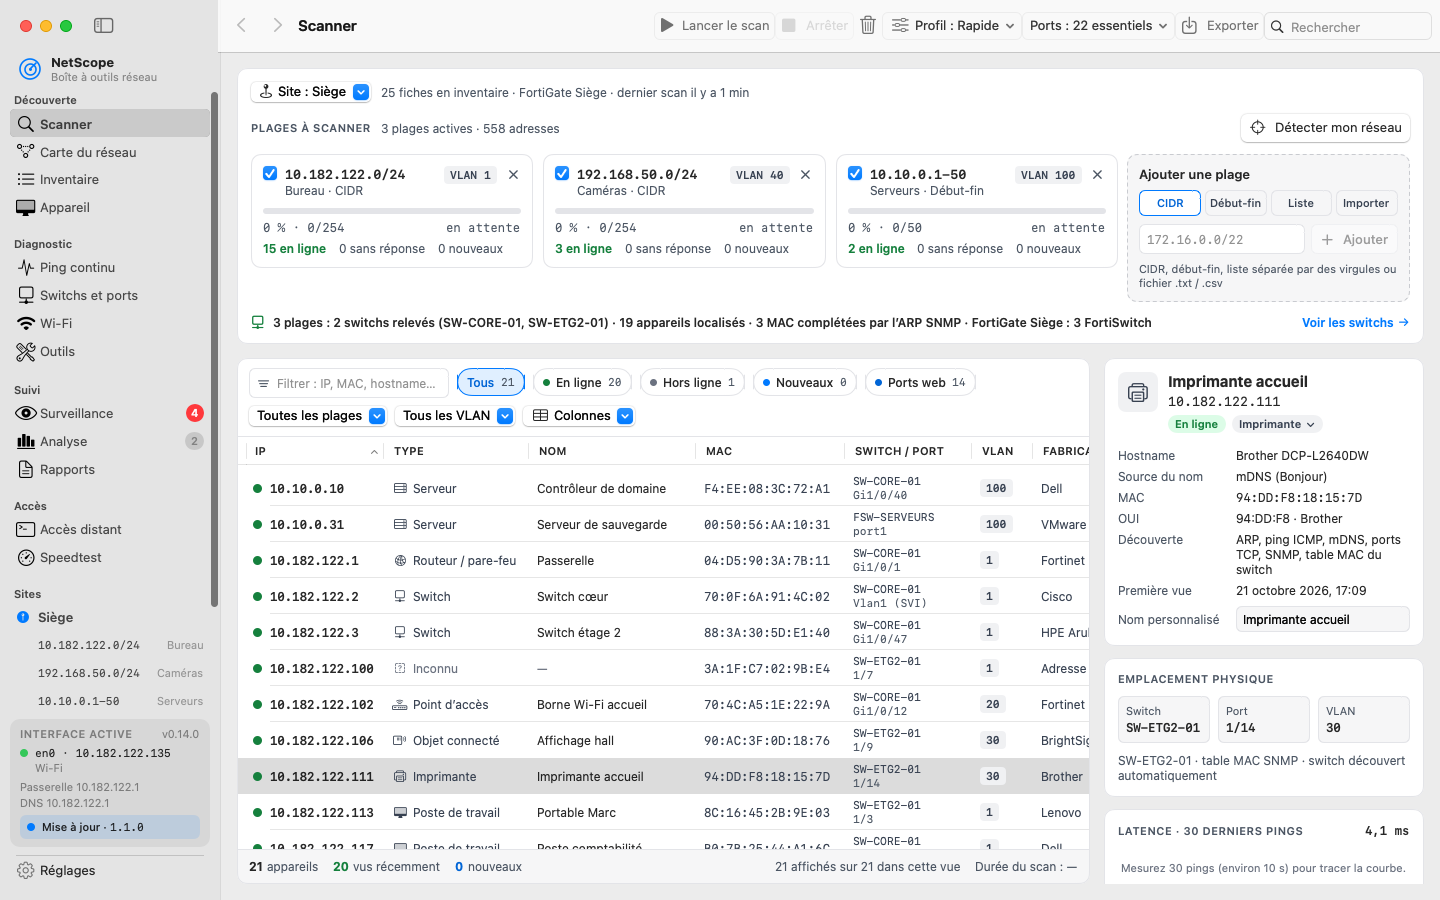
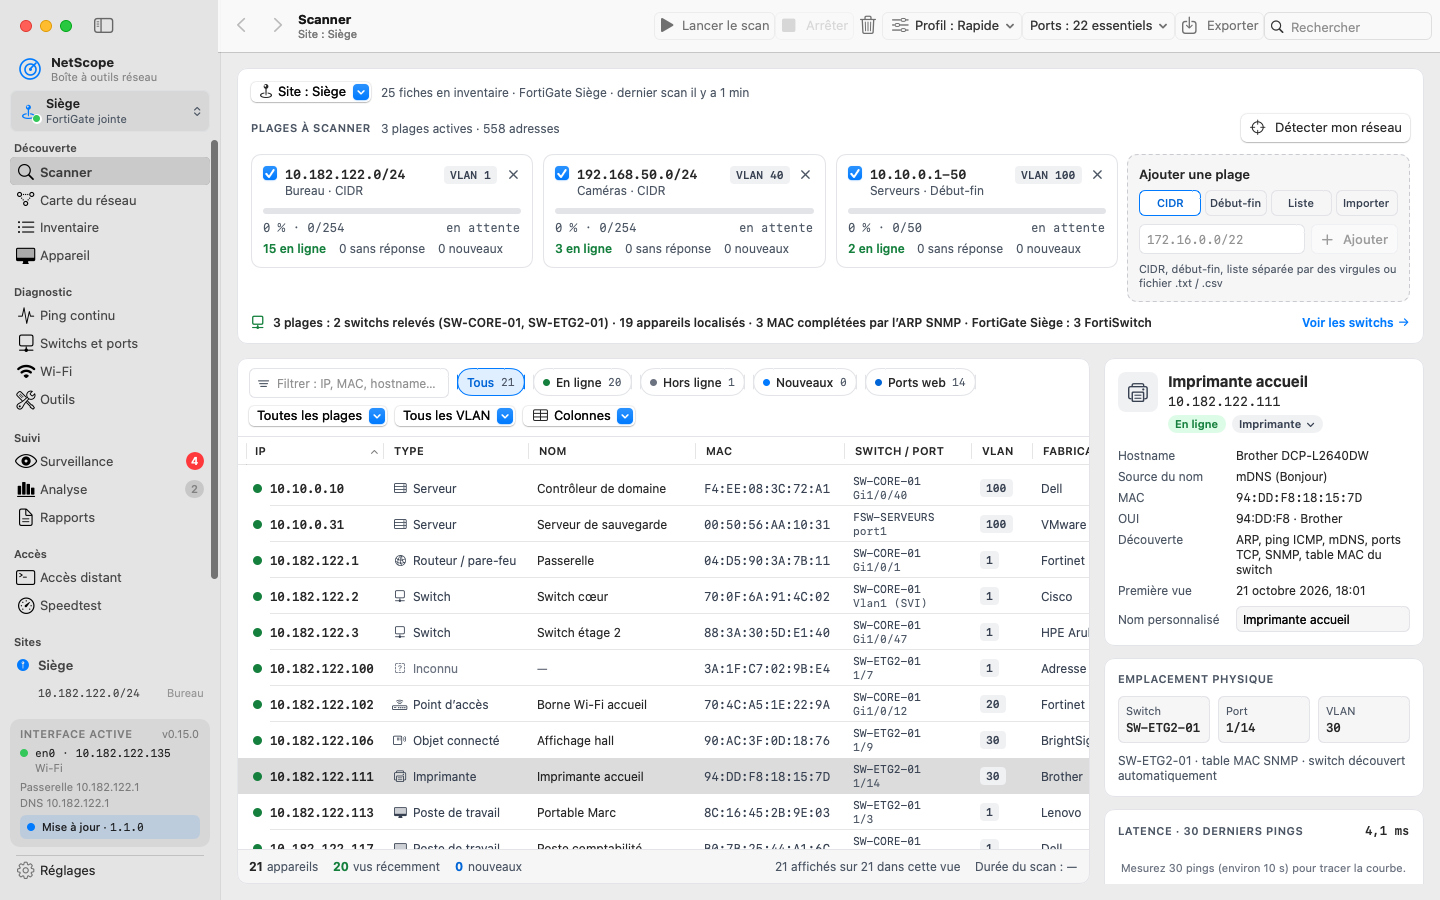
Version 0.15.0
Choix du site sous le logo, Switchs et Wi-Fi d'un autre site, fin du Retour
et nom d'utilisateur SSH à la connexion (notes 49, 48, 45 et 52).

diff --git a/README.md b/README.md
@@ -8,7 +8,7 @@ surveillance, rapports et accès distant, le tout en français.
 
 ## Fonctions
 
-Version 0.14.0 : les quatorze écrans fonctionnent, au style Mac (mode sombre, petite fenêtre), avec des tableaux à colonnes réglables. Nouveau dans la 0.14.0 : la recherche de la Carte du réseau trouve un appareil, centre la carte sur lui et affiche sa fiche (précédent / suivant, autres sites) ; un type « Téléphone IP » détecté automatiquement (fabricant, SIP, LLDP / CDP, VLAN voix) ; l’outil « Étendues DHCP » montre l’occupation de chaque étendue de la FortiGate, avec sonde de Surveillance et section de rapport ; et les sauvegardes peuvent être chiffrées par mot de passe (AES-GCM 256 bits), jetons et secrets inclus en option pour un deuxième Mac. Depuis la 0.13.0 : un double-clic (ou ↩) sur n’importe quel élément mène à sa suite logique (appareil vers sa fiche, port d’un switch vers l’appareil branché, groupe de la Carte vers l’Inventaire filtré sur ces appareils), un menu « Ouvrir dans › » propose les autres modules, et Retour / Avancer (⌘[ et ⌘]) ramènent à l’écran d’avant avec sa recherche et sa sélection ; les gros sites (milliers d’appareils, 20 sites) restent fluides. Depuis la 0.12.0 : des sites (un par client ou par lieu) avec leurs plages, leurs FortiGate, leurs switchs SNMP et leur propre inventaire, choisis dans le Scanner ou reconnus par la passerelle (jamais par la seule IP) ; changer de site met les résultats de côté sans mélanger deux sites, même sur les mêmes plages IP. On peut aussi supprimer des appareils de l’inventaire (sélection multiple, annulable) et afficher un, plusieurs ou tous les sites dans l’Analyse, l’Inventaire, la Carte et les Rapports. Depuis la 0.11.0 : une recherche multiple dans tous les modules (plusieurs mots, préfixes comme « switch:SW-ETG2 type:imprimante », « ip:10.20.0.0/16 » ou « vlan:30 », exclusion par « - », étiquettes retirables) et, dans le module Wi-Fi, les bornes FortiAP de chaque site lues par sa FortiGate en lecture seule (clients, SSID, AP voisins ou non autorisés), avec un diagnostic des canaux, des signaux faibles et des bornes surchargées. Depuis la 0.10.0 : plusieurs FortiGate, une par site, chacune avec son jeton au Trousseau et ses plages couvertes ; à la fin d’un scan, seules celles qui couvrent les plages scannées sont lues (import et export CSV de la liste, « Tester tout »). Depuis la 0.9.0 : les FortiSwitch gérés par une FortiGate (FortiLink) sont lus par l’API REST de la FortiGate, en lecture seule (jeton au Trousseau), et remplissent Switchs et ports ainsi que les colonnes Switch / Port et VLAN du Scanner, même si le réseau FortiLink n’est pas joignable depuis le Mac. Depuis la 0.8.0 : des Réglages complets (notifications choisies avec heures « Ne pas déranger », raccourcis modifiables et menus Scan, Appareil et Aller, sauvegarde automatique avec restauration, test SNMP v2c/v3, identifiants SSH et WMI, méthodes de découverte par profil) et des alertes hors du Mac par courriel et webhook Teams, Slack ou JSON. Depuis la 0.7.0 : « Capture de paquets » façon Wireshark (filtres, détail par couche, vue hexadécimale, suivi de flux, statistiques, .pcap) et « Vitesse des disques » (disques internes et externes, partages réseau, dossiers nuage) dans la Boîte à outils. Depuis la 0.6.0 : « État des services » (Microsoft 365, Azure, Apple, AWS, Google, Cloudflare… vus par leur page officielle et testés depuis votre réseau) et un groupe « Courriel » dans la Boîte à outils (santé d’un domaine sur 100, MX, listes noires, SPF/DKIM/DMARC, diagnostic SMTP, analyse d’en-têtes), avec une Recherche DNS plus complète (SOA, SRV, CAA, DNSSEC, comparaison et propagation). La suite prévue est dans
+Version 0.15.0 : les quatorze écrans fonctionnent, au style Mac (mode sombre, petite fenêtre), avec des tableaux à colonnes réglables. Nouveau dans la 0.15.0 : le site actif se choisit sous le logo NetScope (pastille de sa FortiGate, recherche, « Détecter mon site », menu « Site » et ⌘⇧S, nom du site dans le titre de la fenêtre) ; Switchs et ports et Wi-Fi › FortiAP montrent un autre site, ou plusieurs, sans changer le site actif, avec une colonne « Site » et une lecture à la demande ; le bouton ‹ Retour nomme l’écran d’origine et retrouve la ligne choisie ; et chaque connexion SSH rapide demande le nom d’utilisateur (prérempli, retenu par appareil, forme « admin@10.0.0.2:2222 », commande affichée avant l’ouverture, aucun mot de passe retenu). Depuis la 0.14.0 : la recherche de la Carte du réseau trouve un appareil, centre la carte sur lui et affiche sa fiche (précédent / suivant, autres sites) ; un type « Téléphone IP » détecté automatiquement (fabricant, SIP, LLDP / CDP, VLAN voix) ; l’outil « Étendues DHCP » montre l’occupation de chaque étendue de la FortiGate, avec sonde de Surveillance et section de rapport ; et les sauvegardes peuvent être chiffrées par mot de passe (AES-GCM 256 bits), jetons et secrets inclus en option pour un deuxième Mac. Depuis la 0.13.0 : un double-clic (ou ↩) sur n’importe quel élément mène à sa suite logique (appareil vers sa fiche, port d’un switch vers l’appareil branché, groupe de la Carte vers l’Inventaire filtré sur ces appareils), un menu « Ouvrir dans › » propose les autres modules, et Retour / Avancer (⌘[ et ⌘]) ramènent à l’écran d’avant avec sa recherche et sa sélection ; les gros sites (milliers d’appareils, 20 sites) restent fluides. Depuis la 0.12.0 : des sites (un par client ou par lieu) avec leurs plages, leurs FortiGate, leurs switchs SNMP et leur propre inventaire, choisis dans le Scanner ou reconnus par la passerelle (jamais par la seule IP) ; changer de site met les résultats de côté sans mélanger deux sites, même sur les mêmes plages IP. On peut aussi supprimer des appareils de l’inventaire (sélection multiple, annulable) et afficher un, plusieurs ou tous les sites dans l’Analyse, l’Inventaire, la Carte et les Rapports. Depuis la 0.11.0 : une recherche multiple dans tous les modules (plusieurs mots, préfixes comme « switch:SW-ETG2 type:imprimante », « ip:10.20.0.0/16 » ou « vlan:30 », exclusion par « - », étiquettes retirables) et, dans le module Wi-Fi, les bornes FortiAP de chaque site lues par sa FortiGate en lecture seule (clients, SSID, AP voisins ou non autorisés), avec un diagnostic des canaux, des signaux faibles et des bornes surchargées. Depuis la 0.10.0 : plusieurs FortiGate, une par site, chacune avec son jeton au Trousseau et ses plages couvertes ; à la fin d’un scan, seules celles qui couvrent les plages scannées sont lues (import et export CSV de la liste, « Tester tout »). Depuis la 0.9.0 : les FortiSwitch gérés par une FortiGate (FortiLink) sont lus par l’API REST de la FortiGate, en lecture seule (jeton au Trousseau), et remplissent Switchs et ports ainsi que les colonnes Switch / Port et VLAN du Scanner, même si le réseau FortiLink n’est pas joignable depuis le Mac. Depuis la 0.8.0 : des Réglages complets (notifications choisies avec heures « Ne pas déranger », raccourcis modifiables et menus Scan, Appareil et Aller, sauvegarde automatique avec restauration, test SNMP v2c/v3, identifiants SSH et WMI, méthodes de découverte par profil) et des alertes hors du Mac par courriel et webhook Teams, Slack ou JSON. Depuis la 0.7.0 : « Capture de paquets » façon Wireshark (filtres, détail par couche, vue hexadécimale, suivi de flux, statistiques, .pcap) et « Vitesse des disques » (disques internes et externes, partages réseau, dossiers nuage) dans la Boîte à outils. Depuis la 0.6.0 : « État des services » (Microsoft 365, Azure, Apple, AWS, Google, Cloudflare… vus par leur page officielle et testés depuis votre réseau) et un groupe « Courriel » dans la Boîte à outils (santé d’un domaine sur 100, MX, listes noires, SPF/DKIM/DMARC, diagnostic SMTP, analyse d’en-têtes), avec une Recherche DNS plus complète (SOA, SRV, CAA, DNSSEC, comparaison et propagation). La suite prévue est dans
 [docs/A-FAIRE.md](docs/A-FAIRE.md).
 
 - **Scanner multi-plages qui se remplit tout seul** : plusieurs plages à la fois, ping ICMP

diff --git a/docs/A-FAIRE.md b/docs/A-FAIRE.md
@@ -5,9 +5,9 @@
 
 ## Priorités (revues le 4 novembre 2026, réorganisées avec les notes 45 à 53)
 
-Notes 1 à 5 : livrées dans la 0.3.0 ; note 18 dans la 0.3.1 ; notes 8, 19, 20 et 9 dans la 0.4.0 ; types Console de jeu et Domotique dans la 0.4.1 ; notes 12, 21, 17 et 16 dans la 0.5.0 ; notes 15 et 14 dans la 0.6.0 ; notes 7 et 22 dans la 0.7.0 ; notes 13 et 23 dans la 0.8.0 ; note 24 dans la 0.9.0 ; note 25 dans la 0.10.0 ; notes 26 et 27 dans la 0.11.0 ; note 28 et correction de la Carte dans la 0.12.0 ; notes 34, 33, 31 et 36 dans la 0.13.0 ; notes 32, 30, 37 et 38 dans la 0.14.0.
+Notes 1 à 5 : livrées dans la 0.3.0 ; note 18 dans la 0.3.1 ; notes 8, 19, 20 et 9 dans la 0.4.0 ; types Console de jeu et Domotique dans la 0.4.1 ; notes 12, 21, 17 et 16 dans la 0.5.0 ; notes 15 et 14 dans la 0.6.0 ; notes 7 et 22 dans la 0.7.0 ; notes 13 et 23 dans la 0.8.0 ; note 24 dans la 0.9.0 ; note 25 dans la 0.10.0 ; notes 26 et 27 dans la 0.11.0 ; note 28 et correction de la Carte dans la 0.12.0 ; notes 34, 33, 31 et 36 dans la 0.13.0 ; notes 32, 30, 37 et 38 dans la 0.14.0 ; notes 49, 48, 45 et 52 dans la 0.15.0.
 
-1. **0.13.x et 0.14.x, retours d'essai** (0.8.1 : plantage de Vitesse des disques sur le NAS corrigé ; 0.9.0 : FortiGate essayée avec succès ; 0.10.0 : plusieurs FortiGate à essayer ; 0.11.0 : recherche multiple et FortiAP à essayer ; 0.12.0 : sites à essayer ; 0.13.0 : navigation et gros sites à essayer ; 0.14.0 : recherche de la Carte, téléphones IP, étendues DHCP et sauvegarde chiffrée à essayer) : essais réels de la 0.3.x (localisation, DHCP, capture,
+1. **0.13.x à 0.15.x, retours d'essai** (0.8.1 : plantage de Vitesse des disques sur le NAS corrigé ; 0.9.0 : FortiGate essayée avec succès ; 0.10.0 : plusieurs FortiGate à essayer ; 0.11.0 : recherche multiple et FortiAP à essayer ; 0.12.0 : sites à essayer ; 0.13.0 : navigation et gros sites à essayer ; 0.14.0 : recherche de la Carte, téléphones IP, étendues DHCP et sauvegarde chiffrée à essayer ; 0.15.0 : choix du site, Switchs et Wi-Fi d'un autre site, Retour et nom d'utilisateur SSH à essayer) : essais réels de la 0.3.x (localisation, DHCP, capture,
    notifications, VNC, mise à jour), de la 0.4.0 (menus de colonnes, type, ports, sombre) et
    des 0.5.0 à 0.8.0 (voir ci-dessous) ; 0.13.1 au besoin.
 2. ~~**0.5.0, diagnostic du poste et du réseau local**~~ : livrée le 4 novembre 2026
@@ -38,15 +38,18 @@ Notes 1 à 5 : livrées dans la 0.3.0 ; note 18 dans la 0.3.1 ; notes 8, 19, 20 
     recherche dans la Carte ; 30 : type Téléphone IP et détection ; 37 : étendues DHCP, sonde et
     rapport ; 38 : sauvegarde chiffrée, secrets inclus en option) ; essai réel à faire sur une
     vraie FortiGate (étendues DHCP), un réseau voix et la restauration sur un deuxième Mac.
-12. **Ordre proposé pour la suite** (analyse du 4 novembre 2026, acceptée par Dany ;
+12. ~~**0.15.0, sites et navigation**~~ : livrée le 4 novembre 2026 (notes 49 : site sous le
+    logo, menu « Site » et ⌘⇧S ; 48 : site dans Switchs et Wi-Fi ; 45 : fin du Retour ; 52 : nom
+    d'utilisateur SSH) ; essai réel à faire sur les sites, FortiGate et bornes de Dany.
+13. **Ordre proposé pour la suite** (analyse du 4 novembre 2026, acceptée par Dany ;
     réorganisé le même jour pour placer les notes 45 à 53, ordre accepté par Dany) :
     - **0.13.1** : essais réels (sites, FortiGate, FortiAP, navigation) et correctifs ; note 35
       (journal et diagnostic).
     - ~~**0.14.0, Carte, VoIP, DHCP, sauvegarde**~~ (livrée) : notes 32 (recherche dans la
       Carte), 30 (Téléphonie IP), 37 (étendues DHCP), 38 (sauvegarde chiffrée).
-    - **0.15.0, sites et navigation** : notes 49 (site sous le logo), 48 (site dans Switchs et
-      Wi-Fi), 45 (fin du Retour : bouton qui nomme l'écran, position dans la liste, historique
-      vidé au changement de site), 52 (nom d'utilisateur SSH).
+    - ~~**0.15.0, sites et navigation**~~ (livrée) : notes 49 (site sous le logo), 48 (site dans
+      Switchs et Wi-Fi), 45 (fin du Retour : bouton qui nomme l'écran, position dans la liste,
+      historique vidé au changement de site), 52 (nom d'utilisateur SSH).
     - **0.16.0, Wi-Fi des clients** : notes 46 (clients par borne et par SSID, fiche complète),
       47 (diagnostic Wi-Fi d'un client, avec solutions).
     - **0.17.0, suivi automatique et trafic** : notes 29 (relire en automatique), 39 (WAN des
@@ -66,15 +69,15 @@ Notes 1 à 5 : livrées dans la 0.3.0 ; note 18 dans la 0.3.1 ; notes 8, 19, 20 
 
 | Module | Livrées | À venir |
 | --- | --- | --- |
-| Scanner et sites | 18, 19, 20, 26, 28 | 49 et 48 (0.15.0) |
-| Navigation entre les modules | 31, 33, 34, 36 | 45, fin (0.15.0) |
+| Scanner et sites | 18, 19, 20, 26, 28, 48, 49 | — |
+| Navigation entre les modules | 31, 33, 34, 36, 45 | — |
 | Switchs et ports, Fortinet | 12, 24, 25 | 29, 39 et 54 (0.17.0), 40 et 41 (0.19.0) |
 | Wi-Fi | 1, 27 | 46 et 47 (0.16.0) |
 | Carte du réseau | 32 | — |
 | Inventaire | 8, 30 | 10 (0.20.0) |
 | Ping continu | — | 11 (plus tard) |
 | Boîte à outils | 2, 7, 14, 15, 16, 17, 21, 22, 37 | 51 et 53 (0.18.0) |
-| Accès distant | 5 | 52 (0.15.0), 50 (0.18.0), 6 (plus tard) |
+| Accès distant | 5, 52 | 50 (0.18.0), 6 (plus tard) |
 | Surveillance et alertes | 3, 23 | 43 (0.21.0) |
 | Rapports | 4 | 42 (0.20.0) |
 | Réglages, sauvegarde, aide | 9, 13, 38 | 35 (0.13.1), 44 (0.21.0) |
@@ -754,9 +757,10 @@ entre ces modules. » Règle commune à tout NetScope (englobe les notes 31 et 3
 
 ## 45. Retour à l'écran d'avant, dans tous les modules — 0.15.0 (demande de Dany)
 
-**En grande partie livrée dans la 0.13.0** (note 34 : Retour / Avancer ⌘[ ⌘], recherche,
-filtre et sélection rendus tels quels). Reste pour la 0.15.0 : le bouton qui nomme l'écran
-d'origine, la position dans la liste et l'historique vidé au changement de site.
+**Livrée dans la 0.15.0** (4 novembre 2026), après la 0.13.0 (note 34 : Retour / Avancer ⌘[ ⌘],
+recherche, filtre et sélection rendus tels quels) : le bouton nomme l'écran d'origine, la ligne
+choisie revient en vue et l'historique se vide au changement de site ; essai réel à faire sur un
+vrai scan et les sites de Dany.
 
 « Revenir à l'écran d'avant, peu importe le module, après un double-clic sur un élément. »
 Exemple : Inventaire › double-clic sur une IP › fiche Appareil › Retour › Inventaire. Précise
@@ -818,6 +822,8 @@ qui vérifie chaque cause possible, dit en clair ce qui ne va pas et propose quo
 
 ## 48. Switchs et Wi-Fi : choisir le site — 0.15.0 (demande de Dany)
 
+**Livrée dans la 0.15.0** (4 novembre 2026) ; essai réel à faire sur un vrai scan et les sites de Dany.
+
 « Dans les modules Switch et Wi-Fi, avoir la possibilité de choisir le site. » Étend aux deux
 modules le menu « Site ▾ » que la note 28 donne à l'Analyse, à l'Inventaire, à la Carte et aux
 Rapports :
@@ -832,6 +838,8 @@ Rapports :
   ou un port, note 34 ; Retour, note 45) ; message clair si le site n'a ni FortiGate ni switch.
 
 ## 49. Choix du site sous le logo NetScope — 0.15.0 (demande de Dany)
+
+**Livrée dans la 0.15.0** (4 novembre 2026) ; essai réel à faire sur un vrai scan et les sites de Dany.
 
 « Pouvoir choisir le site sous le logo NetScope. » Un sélecteur de site unique, toujours visible
 en haut de la barre latérale :
@@ -890,6 +898,8 @@ n'en prévoyait qu'un mini serveur temporaire, côté Accès distant) :
   dépendance externe (Network.framework, UDP).
 
 ## 52. SSH : entrer le nom d'utilisateur à la connexion — 0.15.0 (demande de Dany)
+
+**Livrée dans la 0.15.0** (4 novembre 2026) ; essai réel à faire sur un vrai scan et les sites de Dany.
 
 « Quand je me connecte en SSH, avoir la possibilité d'entrer le nom d'utilisateur. »
 Aujourd'hui le nom n'existe que dans une connexion enregistrée du carnet (Accès distant) ;

diff --git a/CHANGELOG.md b/CHANGELOG.md
@@ -1,5 +1,67 @@
 # Changements
 
+## 0.15.0 — 2026-11-04
+
+Choix du site toujours visible sous le logo NetScope, Switchs et ports et Wi-Fi consultables
+pour n’importe quel site sans changer le site actif, un Retour qui nomme l’écran d’origine et
+retrouve la ligne choisie, et un nom d’utilisateur demandé avant chaque connexion SSH rapide.
+
+### Ajouté
+- **Choix du site sous le logo NetScope** : nom du site actif et pastille de sa FortiGate
+  (jointe, injoignable, jamais lue) ; liste des sites avec recherche (nom, plage, libellé,
+  VLAN), « Aucun site », « Tous les sites », « Détecter mon site » et « Gérer les sites… ».
+- Nouveau menu **« Site »** dans la barre de menus et raccourci ⌘⇧S « Choisir le site »
+  (modifiable dans Réglages › Raccourcis) ; le site actif est rappelé dans le titre de la
+  fenêtre.
+- **Switchs et ports** : menu « Site ▾ » en haut de l’écran pour voir les switchs d’un autre
+  site, ou de tous, sans changer le site actif. Une carte par site, un tableau commun avec
+  colonne « Site » et recherche, la façade et le détail du port, et « Lire la FortiGate » à la
+  demande (lecture seule).
+- **Wi-Fi › FortiAP** : menu « Site ▾ » pour voir les bornes, clients, SSID et AP voisins d’un
+  autre site, ou de plusieurs, avec colonne « Site » et « Lire les bornes » par site. Deux sites
+  ne sont jamais mélangés, même s’ils utilisent les mêmes adresses.
+- Messages clairs quand un site n’a ni FortiGate ni switch, quand sa FortiGate n’a pas encore
+  été lue ou quand ses switchs SNMP doivent être relevés sur place.
+- **Nom d’utilisateur SSH à la connexion** : NetScope le demande maintenant avant chaque
+  connexion rapide (fiche Appareil, Scanner, Inventaire, scan des ports), dans une petite
+  fenêtre préremplie avec le dernier nom utilisé pour l’appareil, sinon celui du site ou
+  l’identifiant SSH des Réglages.
+- Liste des noms déjà utilisés (admin, root, manager…) et saisie libre ; la forme
+  `admin@10.0.0.2:2222` est acceptée dans la fenêtre, dans le champ Hôte d’Accès distant et
+  dans sa recherche.
+- Choix du port et de l’identification (automatique, clé privée, mot de passe), avec la
+  commande exacte affichée avant l’ouverture dans Terminal (forme `ssh user@ip`).
+- Nom retenu par appareil, même s’il change d’IP ; case « Ne plus demander pour cet appareil »
+  (⌥-clic ou clic droit pour changer d’utilisateur ou l’oublier) et « Enregistrer dans le
+  carnet » d’Accès distant.
+
+### Modifié
+- Le bouton **‹ Retour** nomme l’écran d’origine (« ‹ Inventaire », « ‹ Carte ») et le menu
+  Aller dit « Retour à … ».
+- Au retour sur l’Inventaire ou le Scanner, la ligne choisie revient en vue, à la même place
+  dans la liste.
+- Changer de site vide l’historique Retour / Avancer ; Switchs et Wi-Fi suivent le site de
+  l’objet après un double-clic ou « Ouvrir dans › ».
+- Une connexion SSH ou Telnet du carnet enregistrée sans utilisateur demande aussi le nom avant
+  de s’ouvrir.
+- Aucun mot de passe n’est retenu par NetScope : les secrets restent au Trousseau ou sont
+  demandés par `ssh` dans Terminal.
+
+### Corrigé
+- « Ouvrir dans › Switchs et ports » sur un appareil d’un autre site ne propose plus le switch
+  du site actif qui porte le même nom.
+
+### Limites
+- Les switchs SNMP d’un autre site ne sont pas interrogés à distance : ils se relèvent sur
+  place, pendant un scan de ce site ; pour un site éloigné, seuls les FortiSwitch lus par sa
+  FortiGate sont à jour.
+- « Lire la FortiGate » et « Lire les bornes » ne lisent que les FortiGate joignables depuis le
+  Mac (jeton au Trousseau, lecture seule) ; sans nouvelle lecture, l’écran montre la dernière
+  lecture connue de ce site.
+- La fenêtre du nom d’utilisateur ne vaut pour l’instant que pour SSH (et Telnet depuis le
+  carnet) ; SFTP / FTP, RDP et VNC n’en profitent pas encore.
+- Essais réels à faire sur les sites, FortiGate et bornes de Dany.
+
 ## 0.14.0 — 2026-11-04
 
 Recherche dans la Carte du réseau, type « Téléphone IP » détecté automatiquement, occupation
